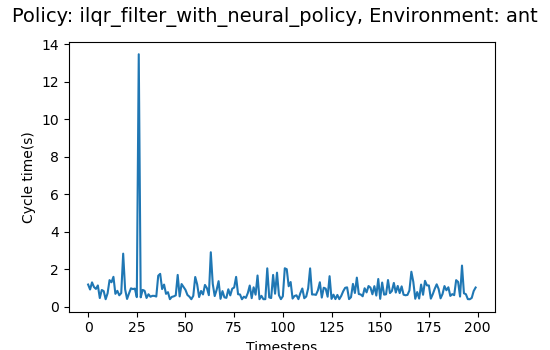
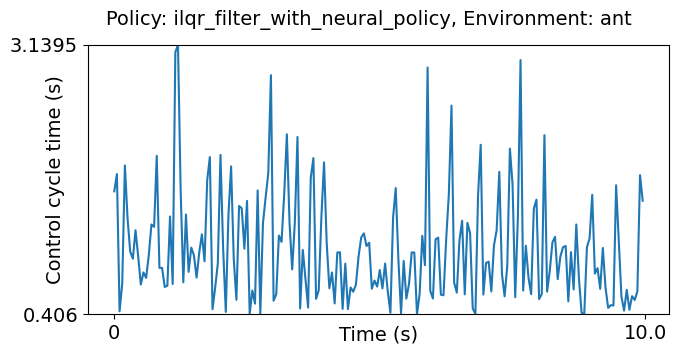
Brax updates (#5)
* run faster

* updated figures

* update reachability policy

* amend plotting utils

* updates to plots

* remove seed and decrease scaling factor for now

* figure update

* reduce min alpha further

* updated ant figures

* mark complete filter as cbf fail

Changed region(s): [[0.0, 0.0, 0.9891, 1.0]]

diff --git a/brax_utils/wrapped_env/wrapper_env.py b/brax_utils/wrapped_env/wrapper_env.py
@@ -22,6 +22,7 @@ class WrappedBraxEnv(ABC):
             self.dim_qd_states = 2
             self.dim_qdd_states = 0
             self.action_limits = np.array([[-1., -1.], [1., 1.]])
+            self.dt = 0.02
         elif env_name=='ant':
             self.dim_x = 29
             self.dim_u = 8
@@ -29,6 +30,7 @@ class WrappedBraxEnv(ABC):
             self.dim_qd_states = 14
             self.dim_qdd_states = 0
             self.action_limits = np.array([[-1., -1., -1., -1., -1., -1., -1., -1.], [1., 1., 1., 1., 1., 1., 1., 1.]])
+            self.dt = 0.05
         else:
             # Raise not implemented error.
             pass
@@ -74,84 +76,130 @@ class WrappedBraxEnv(ABC):
         values = save_dict['values']
         policy_type = save_dict['policy_type']
         is_filter_active = save_dict['filter_active']
+        is_filter_fail = save_dict['filter_failed']
         nsteps = states.shape[0]
-        range_space = np.arange(0, nsteps)
+        range_space = np.arange(0, nsteps) * self.dt
 
         rowdict = {'ant': 4, 'reacher': 2}
         nrows = rowdict[self.env_name]
         ncols = math.ceil(self.dim_q_states/nrows)
-        figsize = {'ant': (22, 16), 'reacher': (9, 4)}
+        figsize = {'ant': (35, 16), 'reacher': (9, 4)}
+        fontsize = {'ant': 14, 'reacher': 10}
+        linewidths = {'ant': 1.5, 'reacher': 2.5}
+        legend_fontsize = fontsize[self.env_name]
+        linewidth = linewidths[self.env_name]
+
         fig, axes = plt.subplots(nrows, ncols, figsize=figsize[self.env_name], sharex=True)
         axes = axes.ravel()
         for idx in range(self.dim_q_states):
-            axes[idx].plot(states[:, idx])
-            axes[idx].set_ylabel(f'q {idx}')
-            axes[idx].set_xlabel('Timesteps')
+            axes[idx].plot(range_space, states[:, idx], linewidth=linewidth)
+            axes[idx].set_ylabel(f'q {idx}', fontsize=legend_fontsize)
+            axes[idx].set_xlabel('Time (s)', fontsize=legend_fontsize)
             min_r = states[:, idx].min()
             max_r = states[:, idx].max()
             axes[idx].fill_between(range_space, 1.2*min_r, 1.2*max_r,
-                                    where=is_filter_active[0:nsteps], color='b', alpha=0.35)
+                                    where=is_filter_active[0:nsteps], color='b', alpha=0.15)
+            axes[idx].yaxis.set_label_coords(-0.04, 0.5)
+            axes[idx].xaxis.set_label_coords(0.5, -0.04)
+            axes[idx].set_xticks(ticks=[0, round(self.dt*nsteps, 2)], labels=[0, round(self.dt*nsteps, 2)], fontsize=legend_fontsize)
+            axes[idx].set_yticks(ticks=[round(states[:, idx].min(), 2), round(states[:, idx].max(), 2)], 
+            labels=[round(states[:, idx].min(), 2), round(states[:, idx].max(), 2)], 
+            fontsize=legend_fontsize)
 
-        fig.suptitle(f'Policy: {policy_type}, Environment: {self.env_name}', fontsize=14)
-        fig.savefig(os.path.join(save_folder, f'{policy_type}_q_states.png'))
+
+        fig.suptitle(f'Policy: {policy_type}, Environment: {self.env_name}', fontsize=legend_fontsize)
+        fig.savefig(os.path.join(save_folder, f'{policy_type}_q_states.png'), bbox_inches='tight')
         plt.close()
 
         nrows = rowdict[self.env_name]
         ncols = math.ceil(self.dim_qd_states/nrows)
-        figsize = {'ant': (22, 16), 'reacher': (9, 4)}
+        figsize = {'ant': (35, 16), 'reacher': (9, 4)}
         fig, axes = plt.subplots(nrows, ncols, figsize=figsize[self.env_name], sharex=True)
         axes = axes.ravel()
         for idx in range(self.dim_qd_states):
-            axes[idx].plot(states[:, self.dim_q_states + idx])
-            axes[idx].set_ylabel(f'qd {idx}')
-            axes[idx].set_xlabel('Timesteps')
+            axes[idx].plot(range_space, states[:, self.dim_q_states + idx], linewidth=linewidth)
+            axes[idx].set_ylabel(f'qd {idx}', fontsize=legend_fontsize)
+            axes[idx].set_xlabel('Time (s)', fontsize=legend_fontsize)
             min_r = states[:, self.dim_q_states + idx].min()
             max_r = states[:, self.dim_q_states + idx].max()
             axes[idx].fill_between(range_space, 1.2*min_r, 1.2*max_r,
-                                    where=is_filter_active[0:nsteps], color='b', alpha=0.35)
+                                    where=is_filter_active[0:nsteps], color='b', alpha=0.15)
+            axes[idx].yaxis.set_label_coords(-0.04, 0.5)
+            axes[idx].xaxis.set_label_coords(0.5, -0.04)
+            axes[idx].set_xticks(ticks=[0, round(self.dt*nsteps, 2)], labels=[0, round(self.dt*nsteps, 2)], fontsize=legend_fontsize)
+            axes[idx].set_yticks(ticks=[round(states[:, self.dim_q_states + idx].min(), 2), round(states[:, self.dim_q_states + idx].max(), 2)], 
+                        labels=[round(states[:, self.dim_q_states + idx].min(), 2), round(states[:, self.dim_q_states + idx].max(), 2)], 
+                        fontsize=legend_fontsize)
 
-        fig.suptitle(f'Policy: {policy_type}, Environment: {self.env_name}', fontsize=14)
-        fig.savefig(os.path.join(save_folder, f'{policy_type}_qd_states.png'))
+        fig.suptitle(f'Policy: {policy_type}, Environment: {self.env_name}', fontsize=legend_fontsize)
+        fig.savefig(os.path.join(save_folder, f'{policy_type}_qd_states.png'), bbox_inches='tight')
         plt.close()
 
         rowdict = {'ant': 2, 'reacher': 1}
-        figsize = {'ant': (18, 9), 'reacher': (9, 4)}
+        figsize = {'ant': (35, 9), 'reacher': (9, 4)}
         nrows = rowdict[self.env_name]
         ncols = math.ceil(self.dim_u/nrows)
 
         fig, axes = plt.subplots(nrows, ncols, figsize=figsize[self.env_name])
         axes = axes.ravel()
         for idx in range(self.dim_u):
-            axes[idx].plot(ctrls[:, idx])
-            axes[idx].set_ylabel(f'Action {idx}')
-            axes[idx].set_xlabel('Timesteps')
+            axes[idx].plot(range_space, ctrls[:, idx], linewidth=linewidth)
             axes[idx].set_ylim([-1.0, 1.0])
             axes[idx].fill_between(range_space, -1.0, 1.0,
-                                    where=is_filter_active[0:nsteps], color='b', alpha=0.35)
+                                    where=is_filter_active[0:nsteps], color='b', alpha=0.15)
+            axes[idx].fill_between(range_space, -1.0, 1.0,
+                            where=is_filter_fail[0:nsteps], color='r', alpha=0.15)
+            axes[idx].yaxis.set_label_coords(-0.04, 0.5)
+            axes[idx].xaxis.set_label_coords(0.5, -0.04)
+            axes[idx].set_xticks(ticks=[0, round(self.dt*nsteps, 2)], labels=[0, round(self.dt*nsteps, 2)], fontsize=legend_fontsize)
+            axes[idx].set_yticks(ticks=[-1.0, 1.0], 
+                        labels=[-1.0, 1.0], 
+                        fontsize=legend_fontsize)
+            axes[idx].set_xlabel('Time (s)', 
+                        fontsize=legend_fontsize)
+            axes[idx].set_ylabel('Control ' + str(idx), 
+                        fontsize=legend_fontsize)
 
-        fig.suptitle(f'Policy: {policy_type}, Environment: {self.env_name}', fontsize=14)
-        fig.savefig(os.path.join(save_folder, f'{policy_type}_actions.png'))
+
+        fig.suptitle(f'Policy: {policy_type}, Environment: {self.env_name}', fontsize=legend_fontsize)
+        fig.savefig(os.path.join(save_folder, f'{policy_type}_actions.png'), bbox_inches='tight')
         plt.close()
 
-        fig = plt.figure(figsize=(5.5, 3.5))
+        fig = plt.figure(figsize=(7.5, 3.5))
         ax = plt.gca()
-        ax.plot(control_cycle_times)
-        ax.set_ylabel('Cycle time(s)')
-        ax.set_xlabel('Timesteps')
-        fig.suptitle(f'Policy: {policy_type}, Environment: {self.env_name}', fontsize=14)
-        fig.savefig(os.path.join(save_folder, f'{policy_type}_process_times.png'))
+        ax.plot(range_space, control_cycle_times, linewidth=linewidth)
+        ax.yaxis.set_label_coords(-0.04, 0.5)
+        ax.xaxis.set_label_coords(0.5, -0.04)
+        ax.set_xticks(ticks=[0, round(self.dt*nsteps, 2)], labels=[0, round(self.dt*nsteps, 2)], fontsize=legend_fontsize)
+        ax.set_yticks(ticks=[round(control_cycle_times.min(), 4), round(control_cycle_times.max(), 4)], 
+                        labels=[round(control_cycle_times.min(), 4), round(control_cycle_times.max(), 4)], 
+                        fontsize=legend_fontsize)
+        ax.set_ylim([round(control_cycle_times.min(), 4), round(control_cycle_times.max(), 4)])
+        ax.set_xlabel('Time (s)', 
+                        fontsize=legend_fontsize)
+        ax.set_ylabel('Control cycle time (s)', 
+                        fontsize=legend_fontsize)
+        fig.suptitle(f'Policy: {policy_type}, Environment: {self.env_name}', fontsize=legend_fontsize)
+        fig.savefig(os.path.join(save_folder, f'{policy_type}_process_times.png'), bbox_inches='tight')
         plt.close()
 
-        fig = plt.figure(figsize=(5.5, 3.5))
+        fig = plt.figure(figsize=(9.5, 3.5))
         ax = plt.gca()
-        ax.plot(values)
-        ax.set_ylabel('Reachability value')
-        ax.set_xlabel('Timesteps')
-        ax.fill_between(range_space, values.min(), values.max()*2.0, 
-                            where=is_filter_active[0:nsteps], color='b', alpha=0.35)
-        ax.set_ylim([values.min(), values.max()*2.0])
-        fig.suptitle(f'Policy: {policy_type}, Environment: {self.env_name}', fontsize=14)
+        ax.plot(range_space, values, linewidth=linewidth)
+        ax.plot(range_space, np.zeros_like(range_space), 'k--')
+        ax.fill_between(range_space, min(values.min(), 0.0), values.max()*2.0, 
+                            where=is_filter_active[0:nsteps], color='b', alpha=0.15)
+        ax.set_ylim([min(round(values.min(), 2), 0.0), round(values.max()*1.2, 2)])
+        ax.yaxis.set_label_coords(-0.04, 0.5)
+        ax.xaxis.set_label_coords(0.5, -0.04)
+        ax.set_xticks(ticks=[0, round(self.dt*nsteps, 2)], labels=[0, round(self.dt*nsteps, 2)], fontsize=legend_fontsize)
+        ax.set_yticks(ticks=[min(round(values.min(), 2), 0.0), round(values.max()*1.2, 2)], 
+                        labels=[min(round(values.min(), 2), 0.0), round(values.max()*1.2, 2)], 
+                        fontsize=legend_fontsize)
+        ax.set_xlabel('Time (s)', 
+                        fontsize=legend_fontsize)
+        ax.set_ylabel('Value function', 
+                        fontsize=legend_fontsize)
+        fig.suptitle(f'Policy: {policy_type}, Environment: {self.env_name}', fontsize=legend_fontsize)
         fig.savefig(os.path.join(save_folder, f'{policy_type}_values.png'), bbox_inches='tight')
         plt.close()
-
-

diff --git a/test_brax_env.py b/test_brax_env.py
@@ -35,7 +35,7 @@ def get_neural_policy(env_name, backend):
     jit_inference_fn = jax.jit(inference_fn)
     return jit_inference_fn
 
-def warmup_safety_filter_with_task_policy_rollout(rng, state, brax_env, task_policy, safety_filter):
+def warmup_jit_with_task_policy_rollout(rng, state, brax_env, task_policy, safety_filter):
     """
     Warmup safety filter by running a few time along the task policy rollout. 
     This is a substitute for the rejection sampling that was used in the bicycle dynamics.
@@ -47,7 +47,7 @@ def warmup_safety_filter_with_task_policy_rollout(rng, state, brax_env, task_pol
     # Substitute for rejection sampling
     for _ in range(10):
       task_ctrl, _ = task_policy(state.obs, act_rng)
-      safety_filter.get_action(obs=state, state=state, task_ctrl=task_ctrl, prev_ctrl = np.zeros((brax_env.dim_u, )))
+      safety_filter.get_action(obs=state, state=state, task_ctrl=task_ctrl, prev_ctrl = np.zeros((brax_env.dim_u, )), warmup=True)
       state = brax_env.step(state, task_ctrl)
 
 
@@ -132,7 +132,7 @@ def main(seed: int, env_name='reacher', policy_type="neural"):
       safety_filter =  iLQRBraxSafetyFilter(id=env_name, brax_envs=brax_envs, cost=reachability_cost, config=config_solver)
 
       # Warmup
-      warmup_safety_filter_with_task_policy_rollout(rng, state, brax_env, task_policy, safety_filter)
+      warmup_jit_with_task_policy_rollout(rng, state, brax_env, task_policy, safety_filter)
       act_rng, rng = jax.random.split(rng)
       task_ctrl, _ = task_policy(state.obs, act_rng)
       safety_filter.get_action(obs=state, state=state, task_ctrl=task_ctrl, prev_ctrl = np.zeros((brax_env.dim_u, )), warmup=True)
@@ -168,6 +168,7 @@ def main(seed: int, env_name='reacher', policy_type="neural"):
     gc_states_sys = np.zeros((T, brax_env.dim_x))
     values_sys = np.zeros((T,))
     filter_active = np.full_like(values_sys, False)
+    filter_failed = np.full_like(values_sys, False)
     control_cycle_times = np.zeros((T, ))
     for idx in range(T):
       print(f"Starting time {idx}")
@@ -196,12 +197,13 @@ def main(seed: int, env_name='reacher', policy_type="neural"):
         time0 = time.time()
         task_ctrl, _ = task_policy(state.obs, act_rng)
         act, solver_dict = safety_filter.get_action(obs=state, state=state, task_ctrl=task_ctrl, prev_sol=prev_sol, prev_ctrl=prev_ctrl)
+        control_cycle_times[idx] = time.time() - time0
         prev_sol = copy.deepcopy(solver_dict)
         controls_init = jnp.asarray(solver_dict['reinit_controls'])
         # act_rng, rng = jax.random.split(rng)
-        control_cycle_times[idx] = time.time() - time0
         values_sys[idx] = solver_dict['marginopt']
         filter_active[idx] = solver_dict['mark_barrier_filter']
+        filter_failed[idx] = solver_dict['mark_complete_filter']
       elif policy_type=="ilqr_filter_with_ilqr_policy":
         time0 = time.time()
         task_ctrl, solver_dict_task = task_policy.get_action(state, controls=controls_init_task)
@@ -213,6 +215,7 @@ def main(seed: int, env_name='reacher', policy_type="neural"):
         controls_init = jnp.asarray(solver_dict['reinit_controls'])
         values_sys[idx] = solver_dict['marginopt']  
         filter_active[idx] = solver_dict['mark_barrier_filter']
+        filter_failed[idx] = solver_dict['mark_complete_filter']
         #print(f"value: {solver_dict['marginopt']}")
         #print(f"Gc coord: {brax_env.get_generalized_coordinates(state)}")
 
@@ -242,14 +245,14 @@ def main(seed: int, env_name='reacher', policy_type="neural"):
         fps=1.0 / brax_env.env.dt / render_every)
     save_dict = {'policy_type': policy_type,  'gc_states': gc_states_sys, 
                   'actions': actions_to_sys, 'process_times': control_cycle_times,
-                  'values': values_sys, 'filter_active': filter_active}
+                  'values': values_sys, 'filter_active': filter_active, 'filter_failed': filter_failed}
     brax_env.plot_states_and_controls(save_dict, save_folder)
     np.save(os.path.join(save_folder, f'{policy_type}_save_data.npy'), save_dict)
 
 if __name__ == "__main__":
-    for seed in range(1):
-      for policy_type in ["ilqr_filter_with_neural_policy"]:
+    for seed in range(5):
+      for policy_type in ["neural", "ilqr_filter_with_neural_policy"]:
         print(seed, policy_type)
-        env_name = 'ant'
+        env_name = 'reacher'
         main(seed, env_name=env_name, policy_type=policy_type)
 

diff --git a/brax_utils/policy/brax_ilqr_filter_policy.py b/brax_utils/policy/brax_ilqr_filter_policy.py
@@ -113,7 +113,7 @@ class iLQRBraxSafetyFilter(BasePolicy):
 
         # Setting tolerance to zero does not cause big improvements at the
         # cost of more unnecessary looping
-        cbf_tol = -1e-3
+        cbf_tol = -1e-2
         # Conditioning parameter out of abundance of caution
         eps_reg = 1e-8
 
@@ -122,12 +122,12 @@ class iLQRBraxSafetyFilter(BasePolicy):
         scaled_c = constraint_violation
 
         # Scaling parameter
-        scaling_factor = 1.2
+        scaling_factor = 0.8
 
         # Exit loop once CBF constraint satisfied or maximum iterations
         # violated
         control_bias_term = np.zeros((self.dim_u,))
-        while((constraint_violation < cbf_tol or warmup) and num_iters < 3):
+        while((constraint_violation < cbf_tol or warmup) and num_iters < 2):
             num_iters = num_iters + 1
 
             # Extract information from solver for enforcing constraint

diff --git a/brax_utils/policy/brax_ilqr_reachability_policy.py b/brax_utils/policy/brax_ilqr_reachability_policy.py
@@ -72,8 +72,6 @@ class iLQRBraxReachability(iLQRBrax):
 
     t_process = time.time() - time0
     #print(f"Reachability solver took {t_process} seconds with status {status}")
-    gc_states = np.asarray(gc_states)
-    controls = np.asarray(controls)
     solver_info = dict(
         gc_states=gc_states, controls=controls, reinit_controls=controls, t_process=t_process, status=status, Vopt=J, marginopt=reachable_margin,
         grad_x=V_x, grad_xx=V_xx, B0=fu[:, :, 0], is_inside_target=False,  K_closed_loop=K_closed_loop, k_open_loop=k_open_loop, num_ddp_iters=i + 1,
